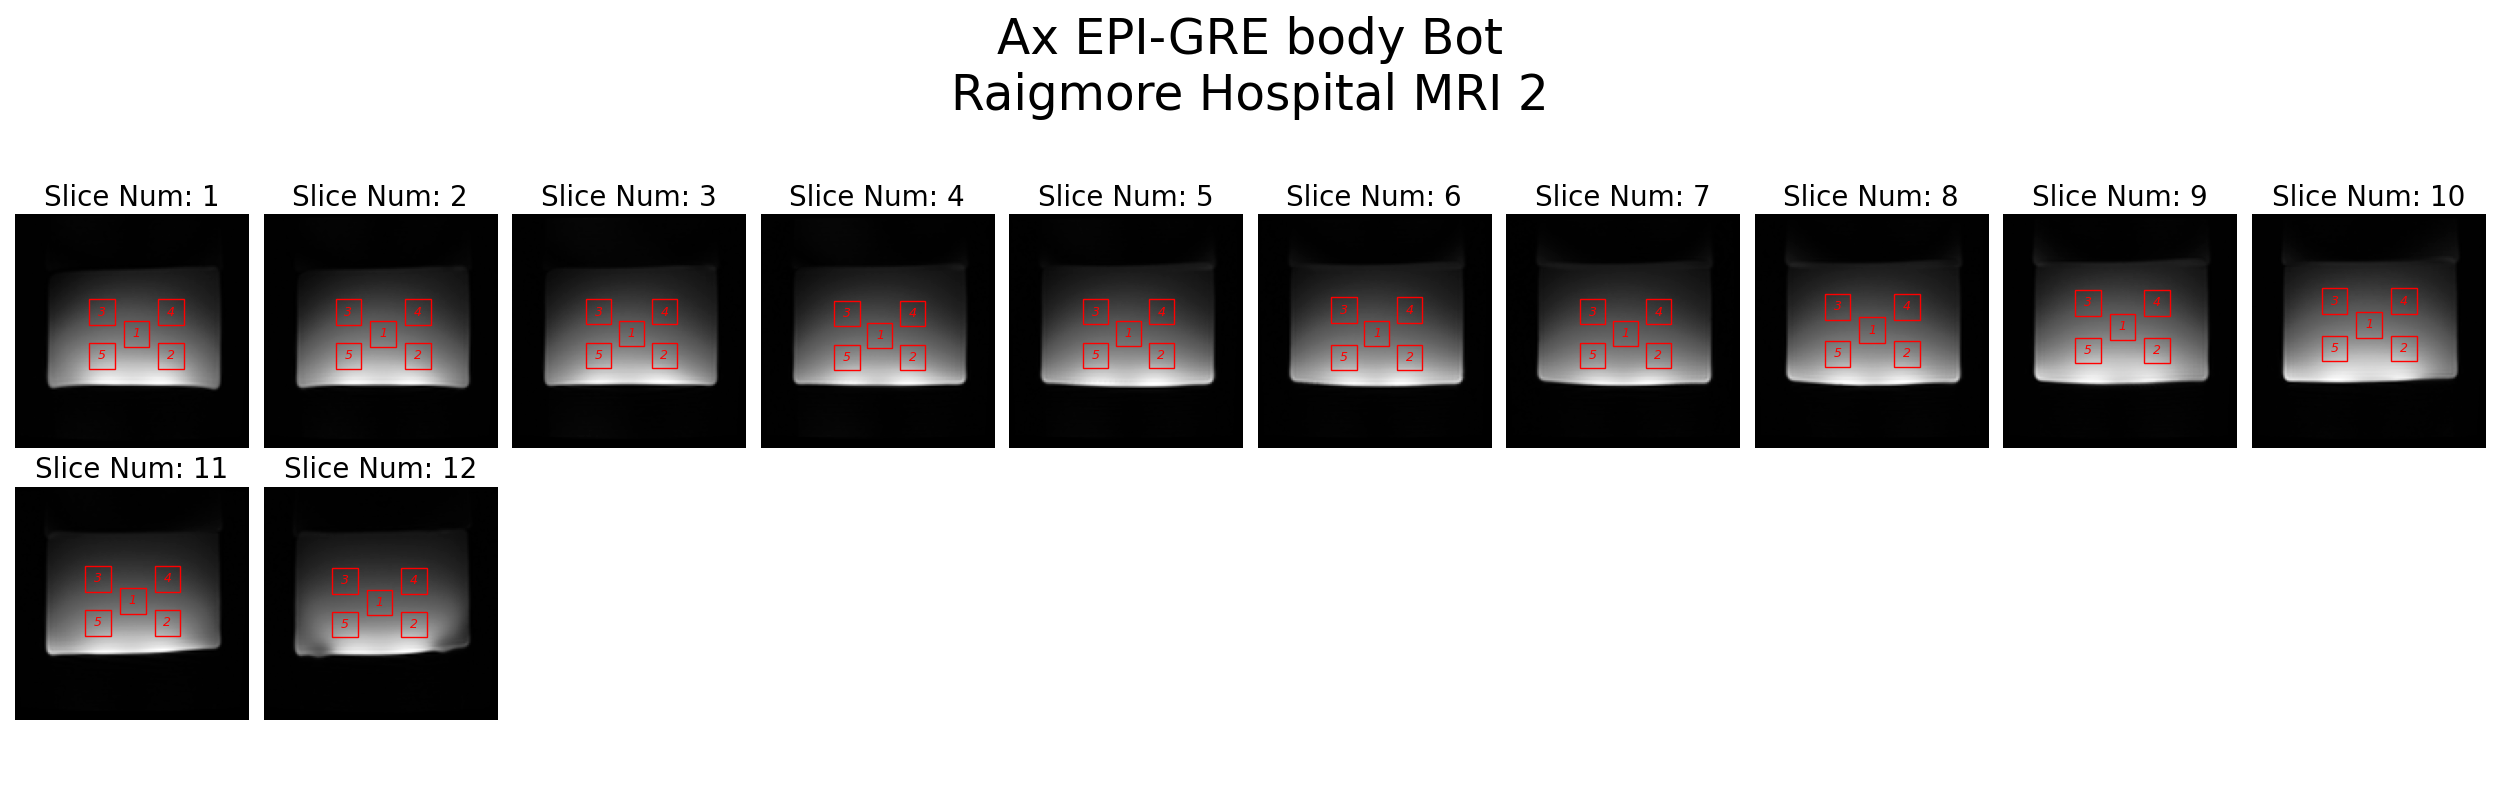
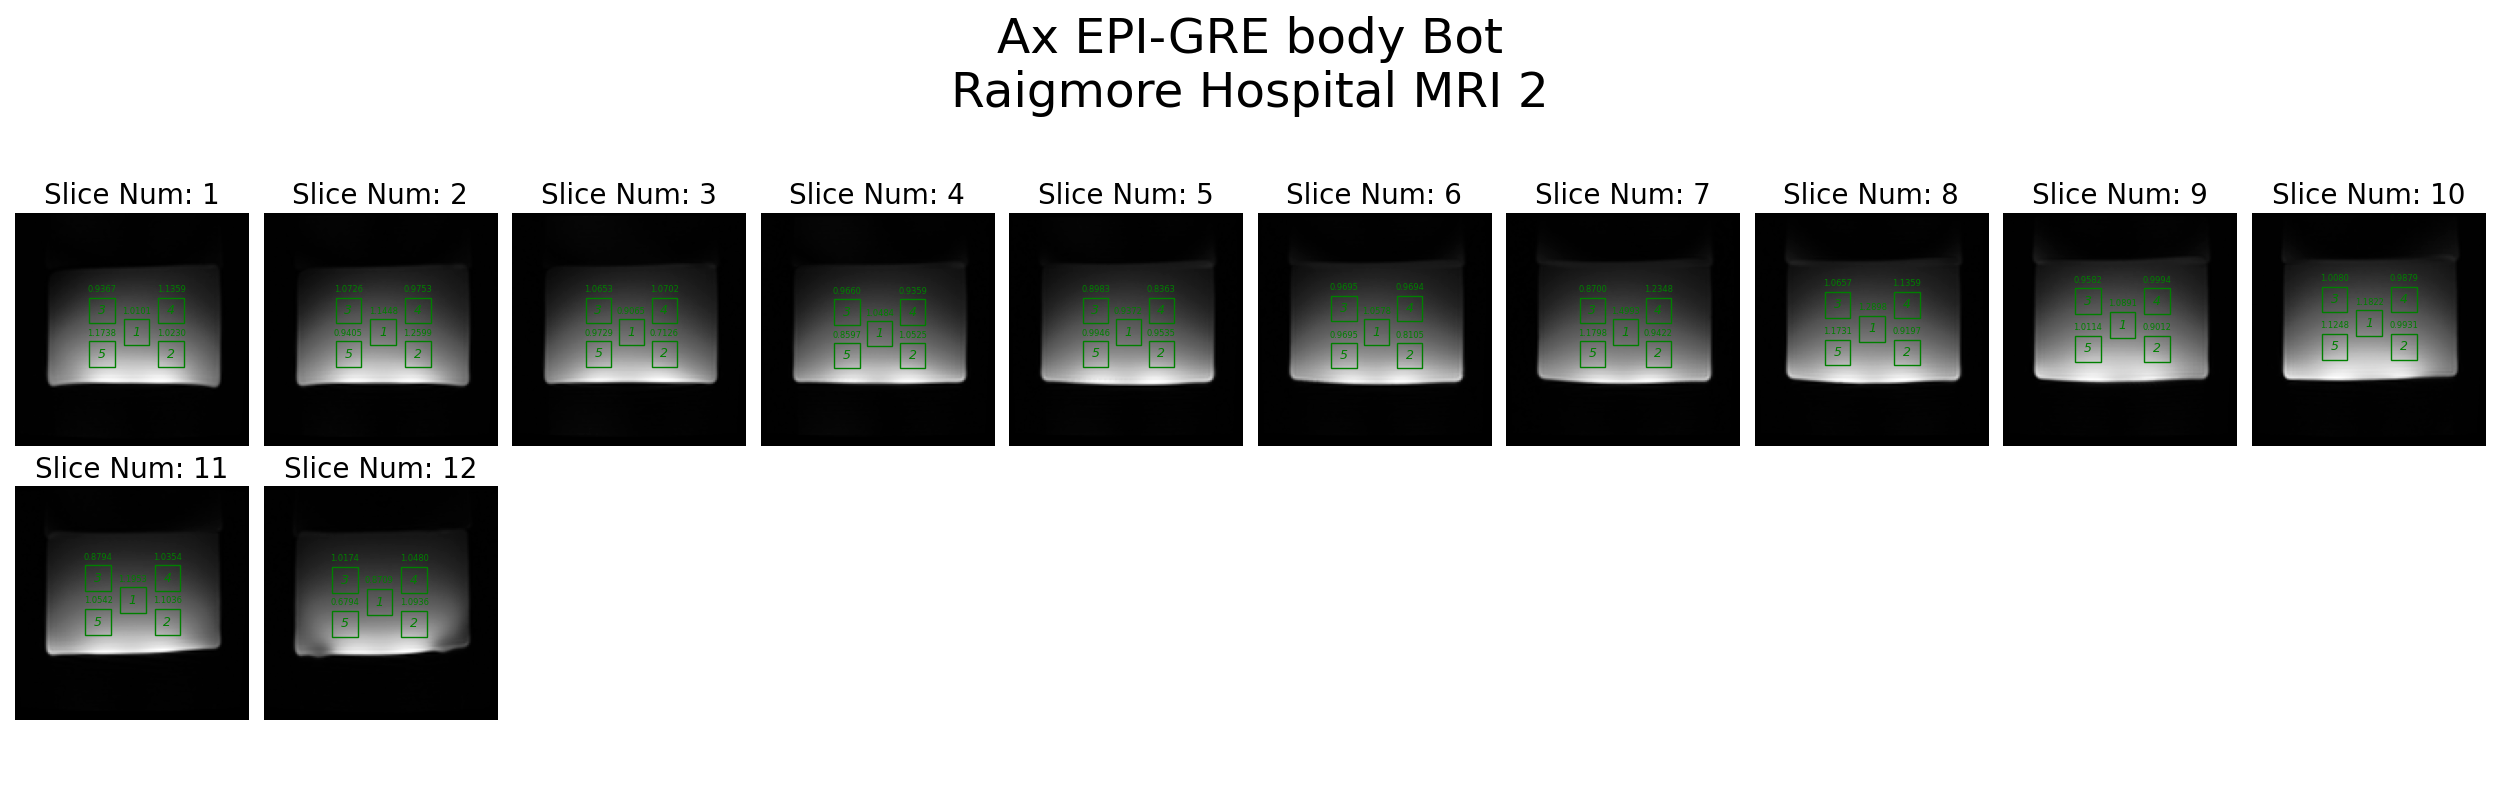
Updated the plotting so it shows what ROI failed

diff --git a/DQA_Scripts/Helper.py b/DQA_Scripts/Helper.py
@@ -402,7 +402,7 @@ def GetThresholds(type):
     f.close()
     return Threshes
 
-def DidQAPassV2(Result,thresh=None):
+def DidQAPassV2(Result,thresh=None, GetStats=False):
     QAType = Result[2]
     SNR = Result[0]
     ROIResults = Result[1]
@@ -429,7 +429,9 @@ def DidQAPassV2(Result,thresh=None):
 
     FailMessage=""
     NumberOfSlicesInSeq = len(ROIResults["M1"])
-    SNR_Rel_Results = [{"M1":None,"M2":None,"M3":None,"M4":None,"M5":None}]*NumberOfSlicesInSeq
+    SNR_Rel_Results = []
+    for i in range(NumberOfSlicesInSeq):
+        SNR_Rel_Results.append({"M1":None,"M2":None,"M3":None,"M4":None,"M5":None})
     ROIS = list(ROIBaseline.keys())
     for ROI in ROIS:
         for Slice in range(NumberOfSlicesInSeq):
@@ -439,10 +441,17 @@ def DidQAPassV2(Result,thresh=None):
                 if (RelSNR <= Threshold[Sequence]):
                     FailMessage+="ROI " + ROI + " on slice " + str(Slice+1) + " SNR Failed on "+ QAType +" QA Seq: " + Sequence + "  Result (%):" + str(round(RelSNR,4)) + "   Threshold:" + str(round(Threshold[Sequence],4)) +"\n"
                     SNR_Rel_Results[Slice][ROI][1] = False
-    if FailMessage=="":
-        return True,FailMessage,SNR_Rel_Results
+                    
+    if GetStats == True:
+        if FailMessage=="":
+            return True,FailMessage,SNR_Rel_Results
+        else:
+            return False,FailMessage,SNR_Rel_Results
     else:
-        return False,FailMessage,SNR_Rel_Results
+        if FailMessage=="":
+            return True,FailMessage
+        else:
+            return False,FailMessage
 
 
 def GetStatsBasedThresh(data):
@@ -469,7 +478,7 @@ def MakePlot(ImageData,seq,ScannerName,Images,ROI_Data,QAType,Results):
         if seq in GetExcludedSlices(QAType).keys():
             SlicesToBeRejected=GetExcludedSlices(QAType)[seq]
 
-        _,_,ROIResults = DidQAPassV2(Results)
+        _,_,ROIResults = DidQAPassV2(Results,GetStats=True)
 
 
         for i in range(len(Images)):
@@ -481,19 +490,31 @@ def MakePlot(ImageData,seq,ScannerName,Images,ROI_Data,QAType,Results):
             axs[CurrentRow,CurrentCol].set_title("Slice Num: " + str(i+1), fontsize=20)
 
             ROI_Data_On_Slce = ROI_Data[i]
-            color = 'red'
+            
             if i not in SlicesToBeRejected:
                 for roi in ROI_Data_On_Slce:
                     ROI_Stats = ROIResults[i]["M"+str(roi.ROIID)]
-                    if ROI_Stats[1]:
+                    if ROI_Stats[1] == True:
                         color = 'green'
+                    else:
+                        color = 'red'
                     rect = roi.Rect
                     rect.set_edgecolor(color)
                     axs[CurrentRow,CurrentCol].add_patch(roi.Rect)
                     center_x = roi.Rect.get_x() + roi.Rect.get_width() / 2
                     center_y = roi.Rect.get_y() + roi.Rect.get_height() / 2
 
-                    axs[CurrentRow,CurrentCol].text(center_x, center_y, str(roi.ROIID) +"\n" +str(round(ROI_Stats[0]*100.0,2)) +"%", style='italic', ha='center', va='center',fontsize=9,color=color)
+                    axs[CurrentRow,CurrentCol].text(center_x, center_y, str(roi.ROIID), style='italic', ha='center', va='center',fontsize=9,color=color)
+
+                    below_y = roi.Rect.get_y() - roi.Rect.get_height() * 0.5
+                    snr_text = f"{ROI_Stats[0]:.4f}"
+                    axs[CurrentRow,CurrentCol].text(center_x, below_y,
+                                                  snr_text,
+                                                  ha='center',
+                                                  va='top',
+                                                  fontsize=6,
+                                                  color=color)
+
 
         plt.tight_layout(rect=[0, 0.03, 1, 0.95])
         dir_path = os.path.dirname(os.path.realpath(__file__))

diff --git a/Testing/DailyQA_SNR_Study.py b/Testing/DailyQA_SNR_Study.py
@@ -180,6 +180,7 @@ MakePlot(x, y, passed, title, xlabel, ylabel, OutputPath, Images)
 def RFArtefactTest(path):
     QAresults = DailyQA.RunDailyQA(path)
     for result in QAresults:
-        result.append( Helper.DidQAPassV2(result))
+        PassFail,Message= Helper.DidQAPassV2(result)
 
+    print(Message)
 RFArtefactTest("Testing/DQA_DeltaFreq_Testing/RF Testing/Test2")
